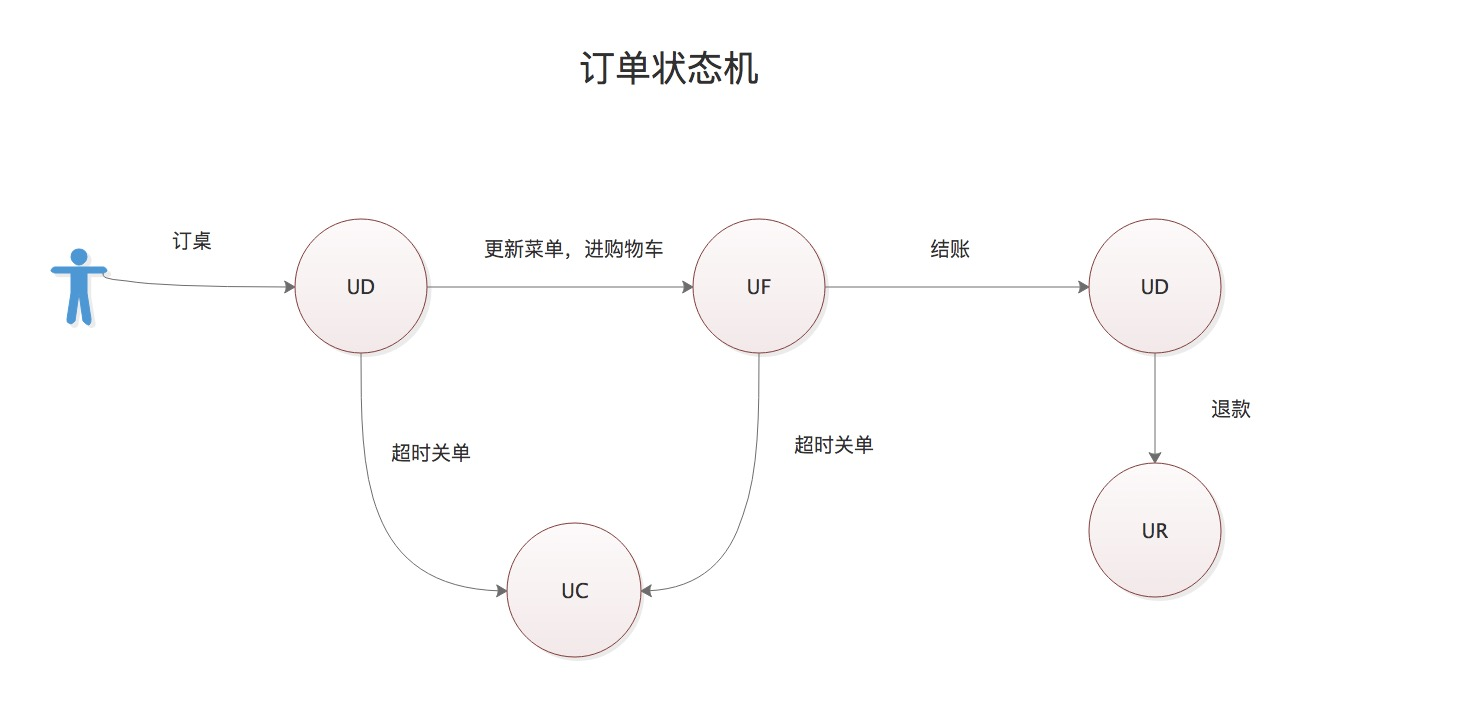
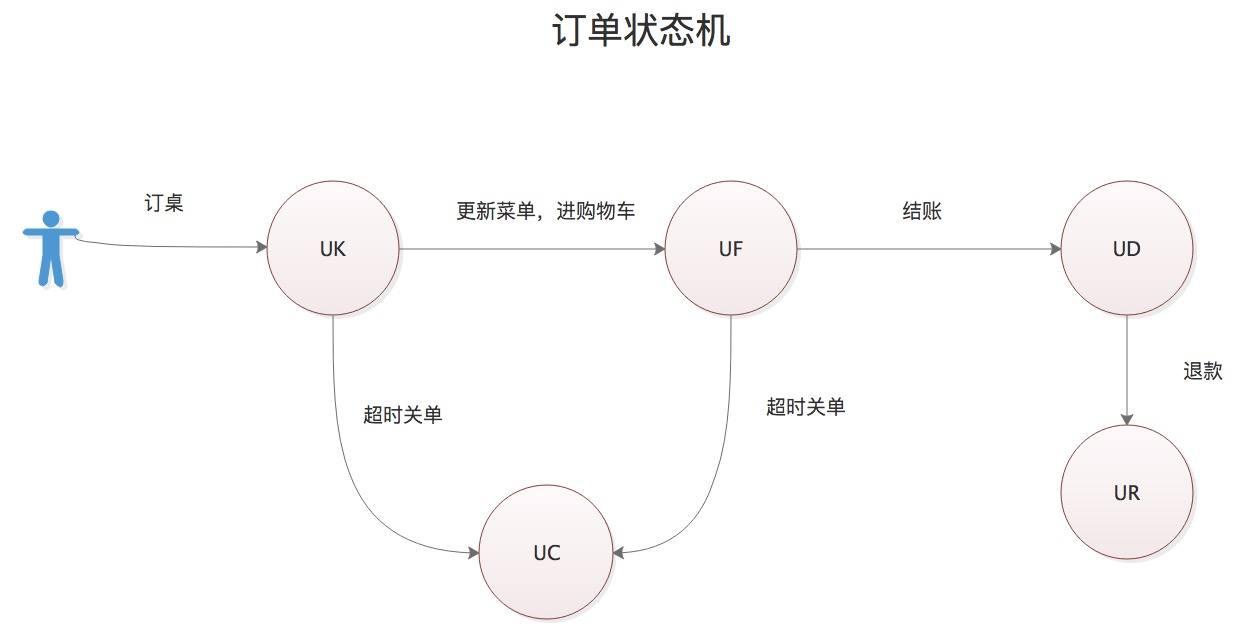
update api

diff --git a/diancan-biz/src/main/java/com/ineedwhite/diancan/biz/impl/DianCanConfigImpl.java b/diancan-biz/src/main/java/com/ineedwhite/diancan/biz/impl/DianCanConfigImpl.java
@@ -2,7 +2,9 @@ package com.ineedwhite.diancan.biz.impl;
 
 import com.ineedwhite.diancan.biz.DianCanConfig;
 import com.ineedwhite.diancan.dao.dao.BoardDao;
+import com.ineedwhite.diancan.dao.dao.CouponDao;
 import com.ineedwhite.diancan.dao.domain.BoardDo;
+import com.ineedwhite.diancan.dao.domain.CouponDo;
 import org.apache.log4j.Logger;
 import org.springframework.stereotype.Service;
 
@@ -28,12 +30,22 @@ public class DianCanConfigImpl implements DianCanConfig{
     @Resource
     private BoardDao boardDao;
 
+    @Resource
+    private CouponDao couponDao;
+
     private static List<BoardDo> boardDoList = new ArrayList<BoardDo>();
+
+    private static List<CouponDo> couponDoList = new ArrayList<CouponDo>();
 
     /**
      * 桌位缓存信息
      */
     private static Map<Integer, BoardDo> boardDoCache = new ConcurrentHashMap<Integer, BoardDo>();
+
+    /**
+     * 卡券缓存信息
+     */
+    private static Map<Integer, CouponDo> couponDoCache = new ConcurrentHashMap<Integer, CouponDo>();
 
     private static ScheduledExecutorService executorService = Executors.newScheduledThreadPool(1);
     @PostConstruct
@@ -52,12 +64,23 @@ public class DianCanConfigImpl implements DianCanConfig{
     public boolean refreshConfig() {
         try {
             logger.info("refresh config information start!");
+
+            //桌位缓存
             boardDoList = boardDao.findAllBoardInfo();
             Map<Integer, BoardDo> newBoardMapCache = new ConcurrentHashMap<Integer, BoardDo>();
             for (BoardDo boardDo : boardDoList) {
                 newBoardMapCache.put(boardDo.getBoard_id(), boardDo);
             }
             boardDoCache = newBoardMapCache;
+
+            //卡券缓存
+            couponDoList = couponDao.findAllCoupon();
+            Map<Integer, CouponDo> newCouponMapCache = new ConcurrentHashMap<Integer, CouponDo>();
+            for (CouponDo couponDo : couponDoList) {
+                newCouponMapCache.put(couponDo.getCoupon_id(), couponDo);
+            }
+            couponDoCache = newCouponMapCache;
+
         } catch (Exception ex) {
             logger.error("refreshGateConfig exception:" + ex.getMessage(), ex);
             return false;
@@ -67,5 +90,9 @@ public class DianCanConfigImpl implements DianCanConfig{
 
     public Map<Integer, BoardDo> getAllBoard() {
         return boardDoCache;
+    }
+
+    public Map<Integer, CouponDo> getAllCouponDo() {
+        return couponDoCache;
     }
 }

diff --git a/diancan-dao/src/main/java/com/ineedwhite/diancan/dao/domain/CouponDo.java b/diancan-dao/src/main/java/com/ineedwhite/diancan/dao/domain/CouponDo.java
@@ -1,0 +1,47 @@
+package com.ineedwhite.diancan.dao.domain;
+
+import java.util.Date;
+
+/**
+ * @author ruanxin
+ * @create 2018-03-09
+ * @desc 卡券 bean
+ */
+public class CouponDo {
+    private Integer coupon_id;
+    private Integer consumption_amount;
+    private Integer discount;
+    private Date expiry_time;
+
+    public Integer getCoupon_id() {
+        return coupon_id;
+    }
+
+    public void setCoupon_id(Integer coupon_id) {
+        this.coupon_id = coupon_id;
+    }
+
+    public Integer getConsumption_amount() {
+        return consumption_amount;
+    }
+
+    public void setConsumption_amount(Integer consumption_amount) {
+        this.consumption_amount = consumption_amount;
+    }
+
+    public Integer getDiscount() {
+        return discount;
+    }
+
+    public void setDiscount(Integer discount) {
+        this.discount = discount;
+    }
+
+    public Date getExpiry_time() {
+        return expiry_time;
+    }
+
+    public void setExpiry_time(Date expiry_time) {
+        this.expiry_time = expiry_time;
+    }
+}

diff --git a/diancan-biz/src/main/java/com/ineedwhite/diancan/biz/DianCanConfig.java b/diancan-biz/src/main/java/com/ineedwhite/diancan/biz/DianCanConfig.java
@@ -1,6 +1,7 @@
 package com.ineedwhite.diancan.biz;
 
 import com.ineedwhite.diancan.dao.domain.BoardDo;
+import com.ineedwhite.diancan.dao.domain.CouponDo;
 
 import java.util.Map;
 
@@ -16,4 +17,9 @@ public interface DianCanConfig {
      * 返回所有桌位缓存
      */
     Map<Integer,BoardDo> getAllBoard();
+
+    /**
+     * 返回卡券缓存
+     */
+    Map<Integer, CouponDo> getAllCouponDo();
 }

diff --git a/diancan-dao/src/main/java/com/ineedwhite/diancan/dao/dao/CouponDao.java b/diancan-dao/src/main/java/com/ineedwhite/diancan/dao/dao/CouponDao.java
@@ -1,0 +1,13 @@
+package com.ineedwhite.diancan.dao.dao;
+
+import com.ineedwhite.diancan.dao.domain.CouponDo;
+
+import java.util.List;
+
+public interface CouponDao {
+    /**
+     * 查找所有的卡券信息
+     * @return
+     */
+    List<CouponDo> findAllCoupon();
+}

diff --git a/diancan-common/src/main/java/com/ineedwhite/diancan/common/OrderStatus.java b/diancan-common/src/main/java/com/ineedwhite/diancan/common/OrderStatus.java
@@ -6,7 +6,7 @@ package com.ineedwhite.diancan.common;
  * @desc 订单状态
  */
 public enum OrderStatus {
-    UK("UI","订单初始化"),
+    UK("UK","订单初始化"),
     UF("UF", "更新了菜单"),
     UD("UD", "结账，支付成功"),
     UR("UR", "退款"),
